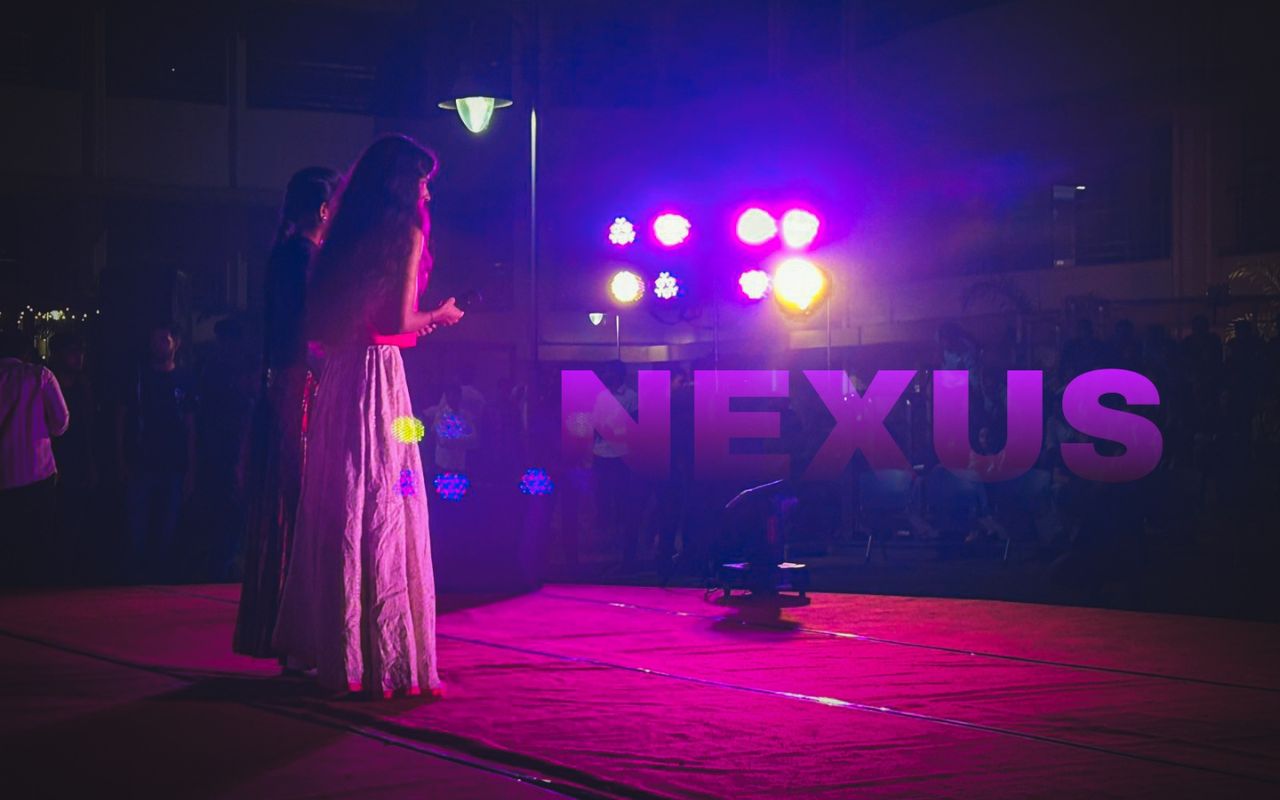
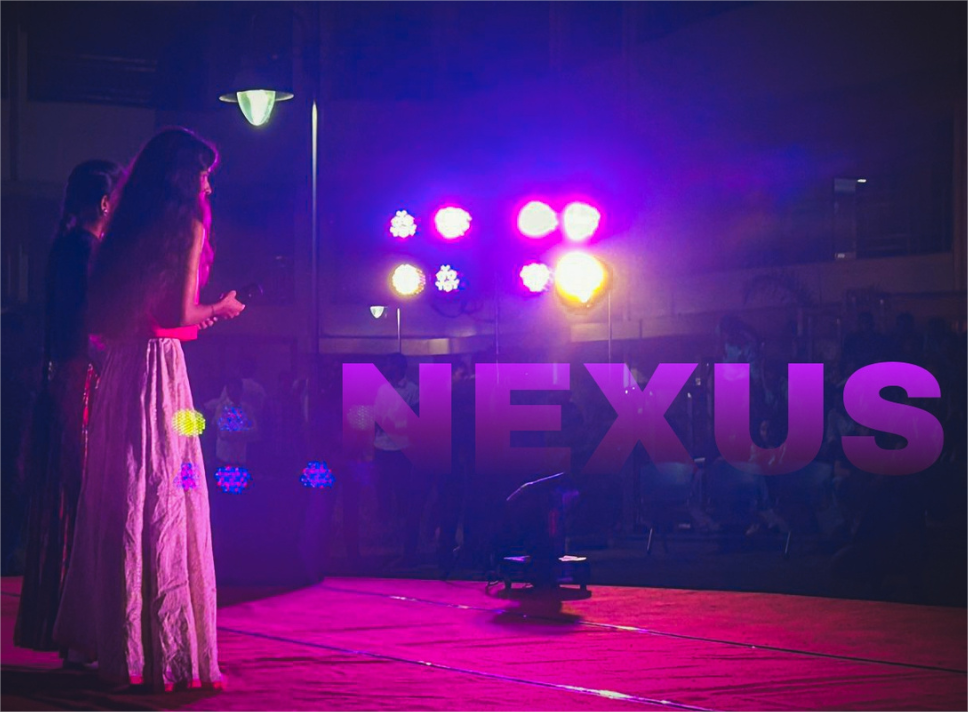
made nexus page responsive

diff --git a/src/Pages/Nexus/NexusPage.css b/src/Pages/Nexus/NexusPage.css
@@ -7,9 +7,10 @@
 .nexus-hero {
   height: 100vh; /* 100% of viewport height */
   width: 100vw; /* 100% of viewport width */
-  background-image: url("../../assets/NexusPage/bg-image2.png"); /* Replace with your image URL */
-  background-size: cover;
-  background-position: center;
+  background-image: url("../../assets/NexusPage/bg-image.png"); /* Replace with your image URL */
+  background-size:cover;
+  background-repeat: no-repeat;
+  background-position:left;
   background-attachment: fixed;
   display: flex;
   justify-content: flex-end;
@@ -17,7 +18,12 @@
   padding: 20px;
   position: relative;
 }
-
+.nexus-scroll{
+  justify-self: center;
+  align-self: flex-end;
+  transform: translateX(-45vw) scale(3.5);
+  /* margin:0 auto; */
+}
 .nexus-nav {
   display: flex;
   gap: 20px;
@@ -47,6 +53,7 @@
   width: 100%;
 }
 
+
 .nexus-section {
   padding: 60px 40px;
   background-image: url("../../assets/about-bg.png"); /* Add background image for the whole section */
@@ -66,7 +73,7 @@
   padding: 30px;
   /* background-color: rgba(255, 255, 255, 0.9); Slight transparency */
   border: 1px solid #ddd;
-  background-image: url("../../assets/about-bg.png"); /* Apply background image */
+  /* background-image: url("../../assets/about-bg.png"); Apply background image */
   background-size: cover;
   background-position: center;
   border-radius: 12px;

diff --git a/src/Pages/Nexus/NexusPage.jsx b/src/Pages/Nexus/NexusPage.jsx
@@ -10,7 +10,7 @@ import EventCard from "./EventCard";
 import sponsorLogo1 from "../../assets/NexusPage/sponsor1.png";
 import sponsorLogo2 from "../../assets/NexusPage/sponsor2.png";
 import sponsorLogo3 from "../../assets/NexusPage/sponsor3.png";
-
+import ArrowDropDownIcon from '@mui/icons-material/ArrowDropDown';
 import events from "./Events";
 
 const NexusPage = () => {
@@ -29,9 +29,14 @@ const NexusPage = () => {
           <a href="#gallery">Gallery</a>
           <a href="#sponsors">Sponsors</a>
         </nav>
+   <div className="nexus-scroll" style={{color:"white"}}>
+   <a href="#nexus-section" className="scroll-btn">
+              <ArrowDropDownIcon/>
+            </a>
+   </div>
       </section>
 
-      <section className="nexus-section">
+      <section className="nexus-section" id="nexus-section">
         <div className="nexus-content">
           <div className="nexus-content-item" id="events">
             <h2>Events</h2>

diff --git a/src/Pages/Nexus/ImageCarousel.css b/src/Pages/Nexus/ImageCarousel.css
@@ -34,8 +34,7 @@
   background-color: red; /* Red background for arrows */
   color: white; /* White color for arrows */
   border: none;
-  height: 40px; /* Increase height to fit icons */
-  width: 40px; /* Increase width to fit icons */
+  padding:0.5rem;
   border-radius: 50%; /* Ensures the container is round */
   display: flex;
   align-items: center;

diff --git a/src/Pages/Nexus/EventCard.css b/src/Pages/Nexus/EventCard.css
@@ -6,6 +6,7 @@
   max-width: 1200px; /* Adjust as needed */
   margin: auto;
   margin-bottom: 25px;
+  flex-flow: row wrap;
 }
 
 .event-card.reverse {
@@ -14,6 +15,7 @@
 
 .event-card-carousel {
   flex: 1;
+  width:100%;
 }
 
 .event-card-content {

diff --git a/src/Pages/Nexus/PhotoCarousel.css b/src/Pages/Nexus/PhotoCarousel.css
@@ -15,7 +15,7 @@
 
 .photo-carousel-image {
   width: 100%;
-  height: 300px; /* Ensure images are responsive */
+  aspect-ratio:0.8;
   transition: transform 0.3s ease, box-shadow 0.3s ease; /* Smooth transition for hover effects */
 }
 

diff --git a/src/Pages/Home/HomePage.css b/src/Pages/Home/HomePage.css
@@ -109,6 +109,9 @@ img {
   /* box-shadow: 0 1px 2px darkslategray; */
   transition: transform 1s;
 }
+.scroll-btn{
+  transform: scale(2.5);
+}
 .scroll > a:hover {
   transform: translateY(-50%) scale(2.5);
 }
